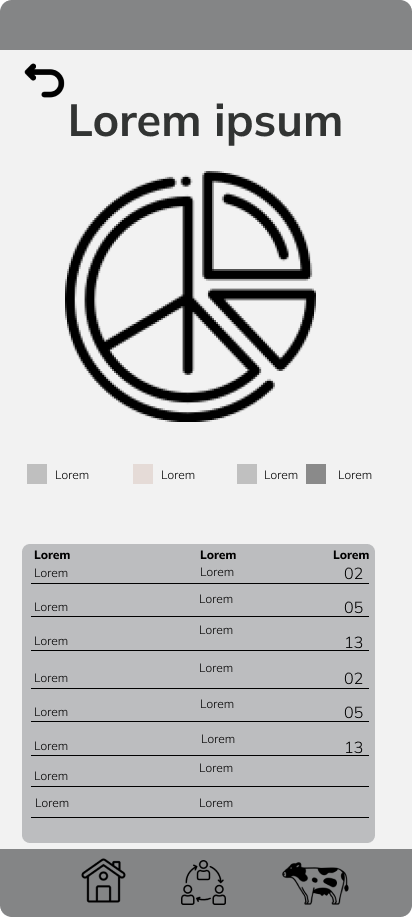
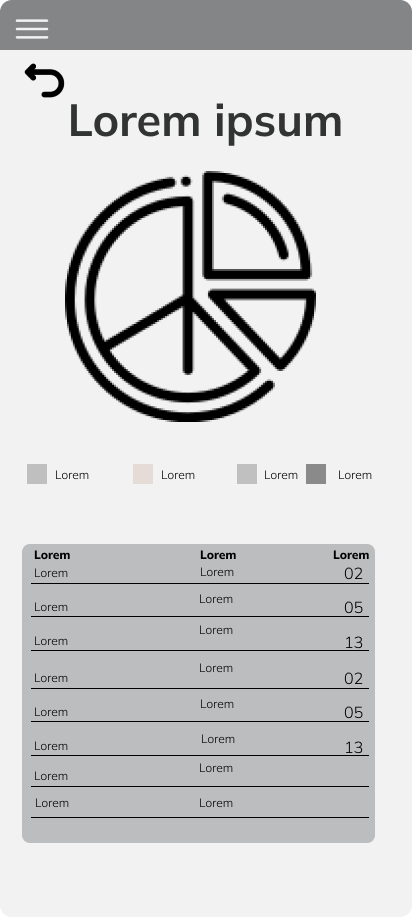
feat(doc): update Readme with new images and sections for improved user navigation

Changed region(s): [[0.0, 0.916, 1.0, 1.0], [0.0291, 0.0, 0.1165, 0.0611]]

diff --git a/Readme.md b/Readme.md
@@ -1722,58 +1722,42 @@ La navegación de VacApp se basa en patrones comunes de apps móviles para reduc
 
 <img src="./assets/planesw.png" style="width: 400px">
 
-**Configuración**
+**Home**
+<img src="./assets/homew.png" style="width: 400px">
+<img src="./assets/homew2.png" style="width: 400px">
+<img src="./assets/homew3.png" style="width: 400px">
 
-<img src="./assets/configuracionw.png" style="width: 400px">
-
-**Cuenta**
-
-<img src="./assets/cuentaw.png" style="width: 400px"> 
-
-**Organización**
-
-<img src="./assets/organizationw.png" style="width: 400px">
-
-<img src="./assets/organizationw1.png" style="width: 400px">
-
-<img src="./assets/organizationw2.png" style="width: 400px">
-
-**Manejo Ganadero**
-
-<img src="./assets/gestionw.png" style="width: 400px">
-
-<img src="./assets/gestionw1.png" style="width: 400px">
-
-**Vista de Animales**
+**Animals**
 
 <img src="./assets/animalw.png" style="width: 400px">
 
-
 <img src="./assets/animalwinfo.png" style="width: 400px">
 
-**Vista de Evento**
-
-<img src="./assets/eventsw.png" style="width: 400px">
 
 
-**Vista de Inventario**
+**Inventario**
 
 <img src="./assets/inventariow.png" style="width: 400px">
 
-
 <img src="./assets/inventariowinfo.png" style="width: 400px">
+
+**Campaña**
+
+<img src="./assets/organizationw.png" style="width: 400px">
+
 
 **vista de "Agregar Animal"**
 
 <img src="./assets/animalwadd.png" style="width: 400px">
 
-**Vista de "Agregar Evento"**
 
-<img src="./assets/inventariowadd.png" style="width: 400px">
+**vista de "Agregar Inventario"**
 
-**Vista de "Agregar Inventario"**
+<img src="./assets/productaddw.png" style="width: 400px">
 
-<img src="./assets/inventariowadd.png" style="width: 400px">
+**vista de "Agregar Campaña"**
+
+<img src="./assets/campaniaaddw.png" style="width: 400px">
 
 #### 5.1.4.2. Mobile Applications Wireflow Diagrams
 
@@ -1782,25 +1766,22 @@ Este flujo guía al usuario desde la pantalla de bienvenida hacia las opciones d
 
 <img src="./assets/1w.png" style="width: 400px">
 
-**User Goal: Home y navegar por el dashboard:**
-Una vez autenticado, el usuario accede al home con accesos rápidos al dashboard. Este wireflow muestra cómo el usuario puede visualizar las opciones "animales" y "Organizaciones"
+
+
+**User Goal: Home y navegar por las secciones "Animals","Campaigns" e "Inventory"**
+Una vez autenticado, el usuario accede al home con accesos rápidos con el sidebar. Este wireflow muestra cómo el usuario puede visualizar las opciones "Animals", "CAmpaings e "inventory"
 
 <img src="./assets/2w.png" style="width: 400px">
 
-**User Goal: Registro de una nueva organización:** 
-Este flujo está diseñado para facilitar el alta de una nueva organización dentro de la plataforma. Incluye formularios estructurados para ingresar datos relevantes (nombre, tipo de organización, representante etc.) 
+**User Goal: Registro de un nuevo dato ya sea "Animals","Campaigns" o "Inventory":** 
+Este flujo está diseñado para facilitar al agregar ya sea un bovino, una campaña o un producto de inventario.
 
 <img src="./assets/3w.png" style="width: 400px">
-
-**User Goal: Navegar por la sección “Livestock Management”:** 
-Representa cómo el usuario accede a la gestión del ganado desde el dashboard. Este wireflow detalla la navegación entre las subcategorías como registro de animales, asegurando una experiencia estructurada y centrada en la productividad.
-
-<img src="./assets/4w.png" style="width: 400px">
 
 #### 5.1.4.3. Mobile Applications Mock-ups
 **Inicio Sesion**
 
-<img src="./assets/inicio.png" style="width: 400px">
+<img src="./assets/singin.png" style="width: 400px">
 
 **Registro**
 
@@ -1811,56 +1792,45 @@ Representa cómo el usuario accede a la gestión del ganado desde el dashboard. 
 
 <img src="./assets/planes.png" style="width: 400px">
 
-**Configuración**
+**Home**
 
-<img src="./assets/configuracion.png" style="width: 400px">
+<img src="./assets/home.png" style="width: 400px">
+<img src="./assets/home2.png" style="width: 400px">
+<img src="./assets/home3.png" style="width: 400px">
 
-**Cuenta**
-
-<img src="./assets/cuenta.png" style="width: 400px"> 
-
-**Organización**
-
-<img src="./assets/organization.png" style="width: 400px">
-
-<img src="./assets/organization1.png" style="width: 400px">
-
-<img src="./assets/organization2.png" style="width: 400px">
-
-**Manejo Ganadero**
-
-<img src="./assets/gestion.png" style="width: 400px">
-
-<img src="./assets/gestion1.png" style="width: 400px">
-
-**Vista de Animales**
+**Animals**
 
 <img src="./assets/animal.png" style="width: 400px">
 
 <img src="./assets/animalinfo.png" style="width: 400px">
 
-**Vista de Evento**
-
-<img src="./assets/events.png" style="width: 400px">
 
 
-**Vista de Inventario**
+**Inventario**
 
 <img src="./assets/inventario.png" style="width: 400px">
 
 <img src="./assets/inventarioinfo.png" style="width: 400px">
 
+**Campaña**
+
+<img src="./assets/organization.png" style="width: 400px">
+
+
 **vista de "Agregar Animal"**
 
 <img src="./assets/animaladd.png" style="width: 400px">
 
-**Vista de "Agregar Evento"**
 
-<img src="./assets/gesrionadd.png" style="width: 400px">
+**vista de "Agregar Inventario"**
 
-**Vista de "Agregar Inventario"**
+<img src="./assets/productadd.png" style="width: 400px">
 
-<img src="./assets/eventadd.png" style="width: 400px">
+
+**vista de "Agregar Campaña"**
+
+<img src="./assets/campaniaadd.png" style="width: 400px">
+
 
 #### 5.1.4.4. Mobile Applications User Flow Diagrams
 
@@ -1869,20 +1839,17 @@ Este flujo guía al usuario desde la pantalla de bienvenida hacia las opciones d
 
 <img src="./assets/1.png" style="width: 400px">
 
-**User Goal: Home y navegar por el dashboard:**
-Una vez autenticado, el usuario accede al home con accesos rápidos al dashboard. Este wireflow muestra cómo el usuario puede visualizar las opciones "animales" y "Organizaciones"
+**User Goal: Home y navegar por las secciones "Animals","Campaigns" e "Inventory"**
+Una vez autenticado, el usuario accede al home con accesos rápidos con el sidebar. Este wireflow muestra cómo el usuario puede visualizar las opciones "Animals", "CAmpaings e "inventory"
 
 <img src="./assets/2.png" style="width: 400px">
 
-**User Goal: Registro de una nueva organización:** 
-Este flujo está diseñado para facilitar el alta de una nueva organización dentro de la plataforma. Incluye formularios estructurados para ingresar datos relevantes (nombre, tipo de organización, representante etc.) 
+**User Goal: Registro de un nuevo dato ya sea "Animals","Campaigns" o "Inventory":** 
+Este flujo está diseñado para facilitar al agregar ya sea un bovino, una campaña o un producto de inventario.
 
 <img src="./assets/3.png" style="width: 400px">
 
-**User Goal: Navegar por la sección “Livestock Management”:** 
-Representa cómo el usuario accede a la gestión del ganado desde el dashboard. Este wireflow detalla la navegación entre las subcategorías como registro de animales, asegurando una experiencia estructurada y centrada en la productividad.
 
-<img src="./assets/4.png" style="width: 400px">
 
 #### 5.1.4.5. Mobile Applications Prototyping
 
